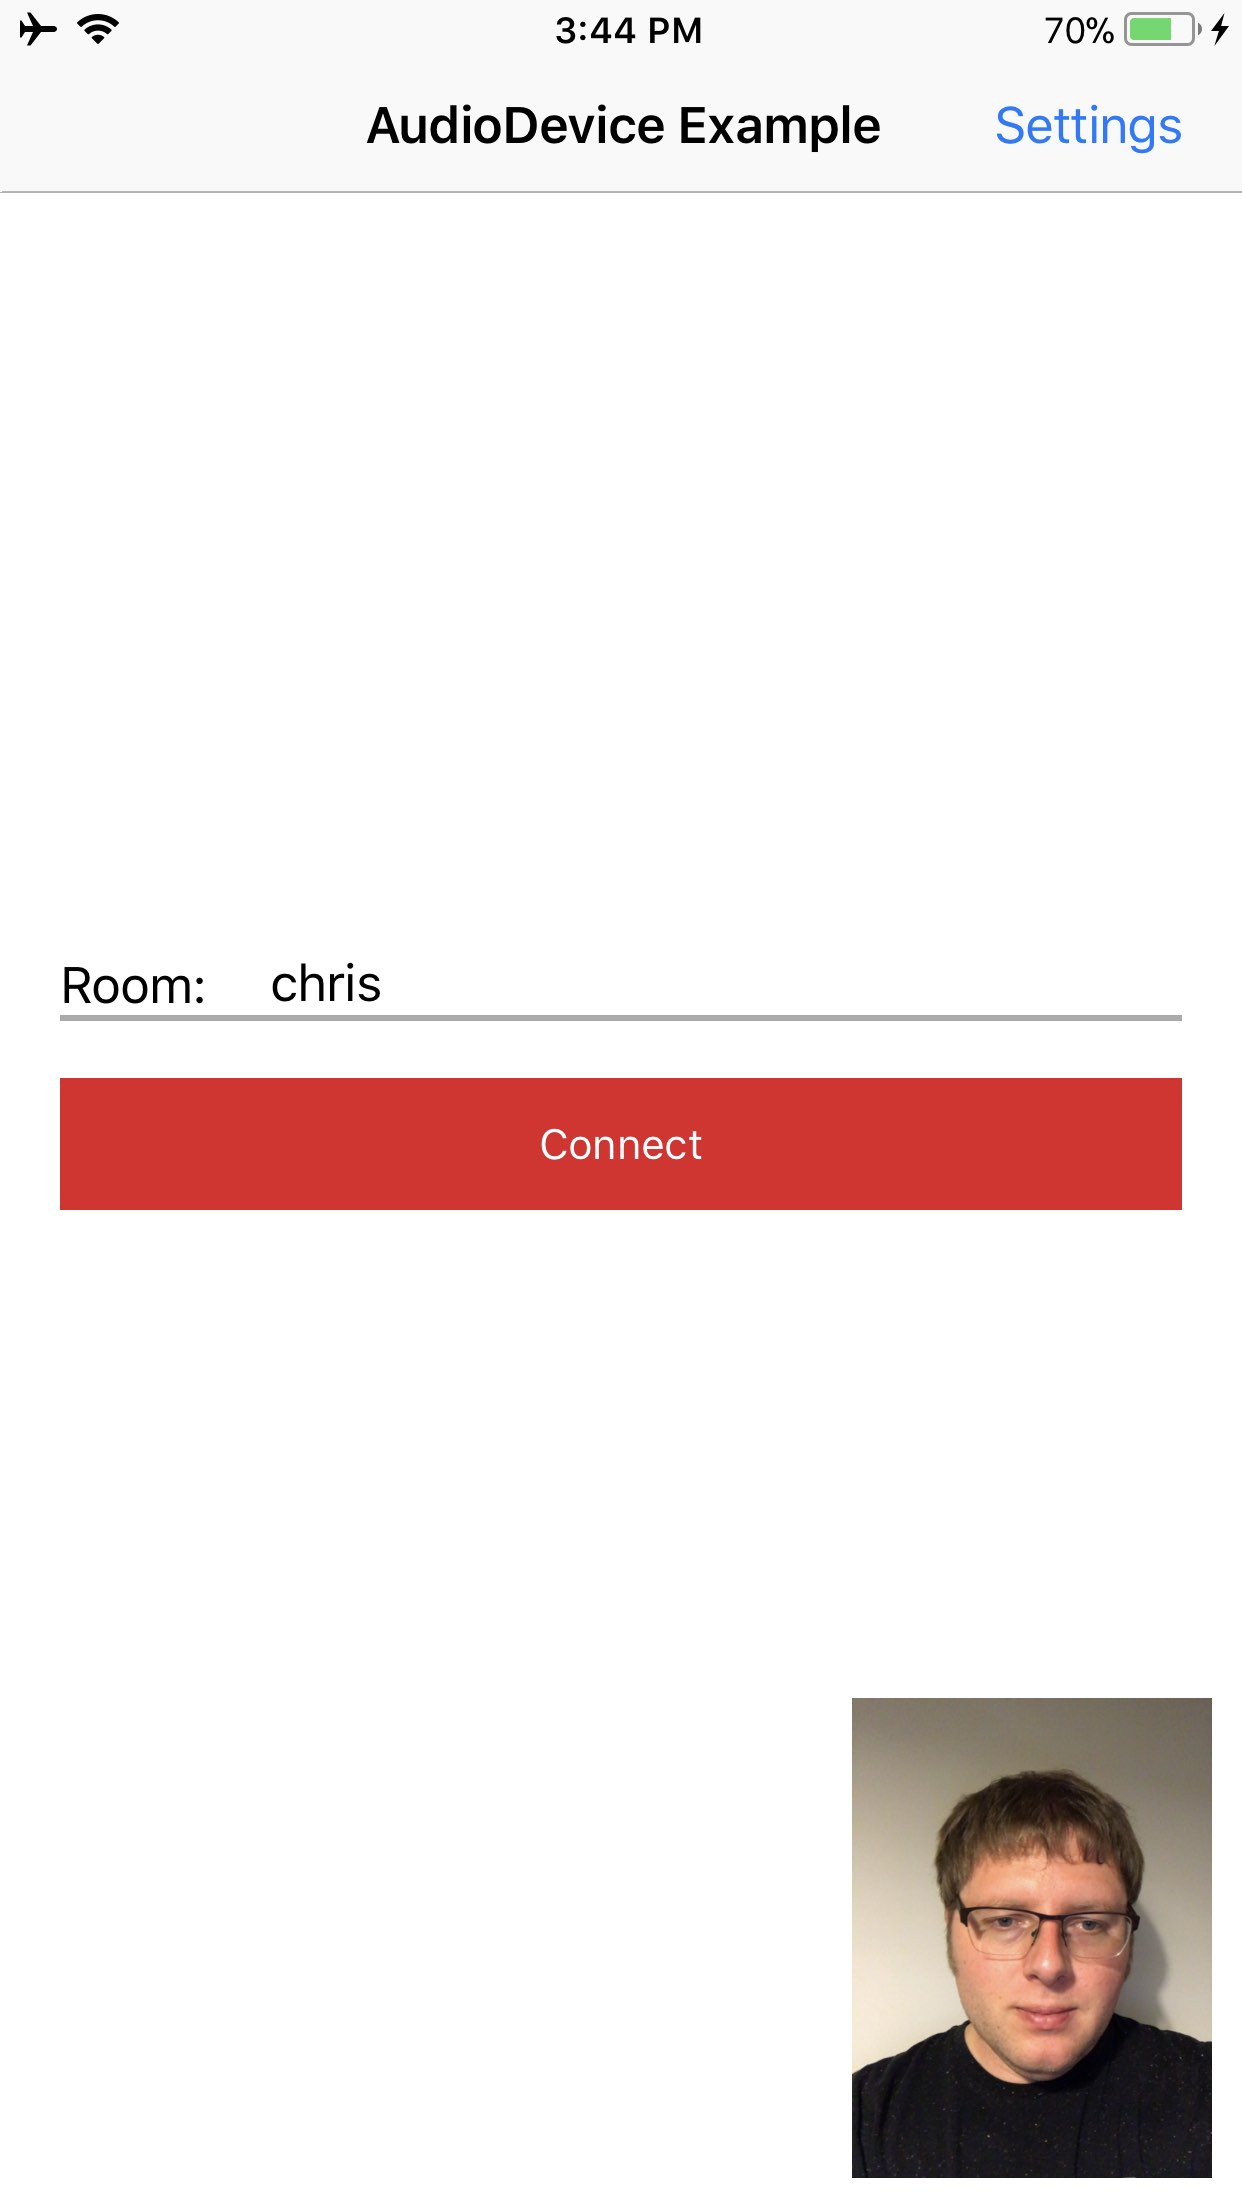
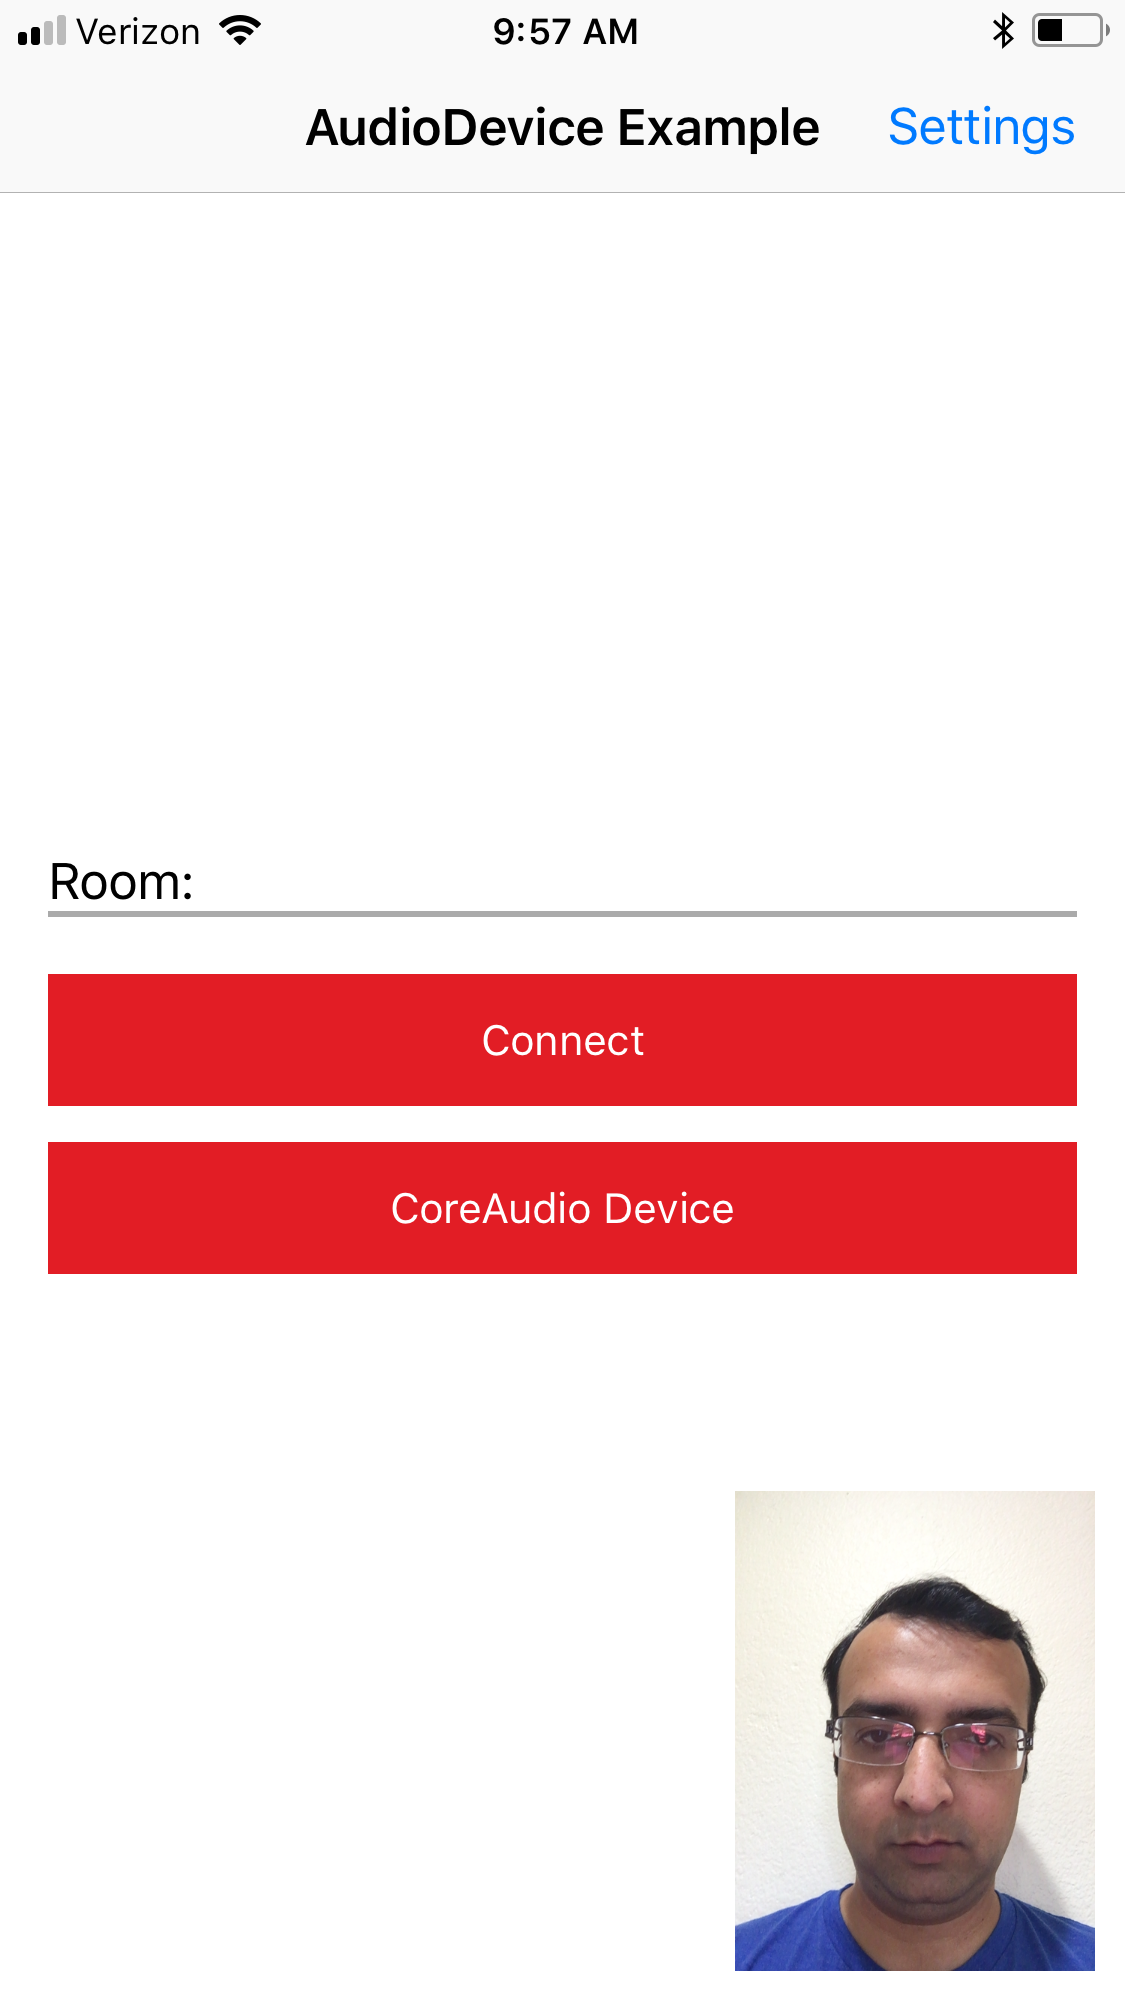
README changes

diff --git a/AudioDeviceExample/README.md b/AudioDeviceExample/README.md
@@ -8,12 +8,12 @@ The example demonstrates the following custom audio device(s):
 
 Uses a RemoteIO audio unit to playback stereo audio at up to 48 kHz. In contrast to `TVIDefaultAudioDevice`, this class does not record audio and is intended for high quality playback. Since recording is not needed this device does not use the built in echo cancellation provided by CoreAudio's VoiceProcessingIO audio unit nor does it require microphone permissions from the user.
 
-**ExampleAudioEngineDevice**
+**ExampleAVAudioEngineDevice**
 
 Uses the CoreAudio's VoiceProcessingIO audio unit to record and playback at up to 48KHz. Since this example supports audio capturing, the audio device uses the built-in echo cancellation provided by CoreAudio's VoiceProcessingIO audio unit. The example uses AVAudioEngine in manual rendering mode for mixing the Remote Participant's audio and audio from a file. CoreAudio receives the mixed audio samples from the AVAudioUnit's 
 output node.
 
-Please note, this example requires iOS 11.0 or above.
+Please note, ExampleAVAudioEngineDevice requires iOS 11.0 or above.
 
 Following example describes how audio device uses TwilioVideo, AVAudioEngine, and CoreAudio -
 
@@ -31,14 +31,22 @@ Once you have configured your access token, build and run the example. You will 
 
 <kbd><img width="400px" src="../images/quickstart/audio-device-launched.jpg"/></kbd>
 
+Tap the audio device button to select an audio device: 
+
+<kbd><img width="400px" src="../images/quickstart/select-audio-device.jpg"/></kbd>
+
+Once the audio device of your choice is selected, enter the room name.
+
+<kbd><img width="400px" src="../images/quickstart/enter-room-name.jpg"/></kbd>
+
 Tap the "Connect" button to join a Room. Once you've joined you will be sharing video but not audio. In order to playback audio from a remote Participant you will need a Client which supports audio recording. The easiest way to do this is to build and run the normal QuickStart [example](https://github.com/twilio/video-quickstart-swift/tree/2.0.0-preview/VideoQuickStart) and join the same Room.
 
 After the remote Participant has joined you should be able to hear their audio. Watch out if both devices are in the same physical space, because `ExampleCoreAudioDevice` does not use echo cancellation.
 
 ### Known Issues
 
-The AVAudioSession is configured and activated at playback initialization time. Ideally, it would be better to activate the AVAudioSession only when audio playback is needed. 
+The AVAudioSession is configured and activated at playback initialization time. Ideally, it would be better to activate the AVAudioSession only when audio playback is needed.
 
-You will also notice that backgrounding the application causes the signaling connection to die. 
+You will also notice that backgrounding the application causes the signaling connection to die.
 
-Both issues are limitations with custom `TVIAudioDevice`s in [2.0.0-beta1](https://www.twilio.com/docs/api/video/changelog-twilio-video-ios-version-2x#200-beta1-february-7-2018) and we expect to rectify them in future releases.
+Both issues are limitations with custom `TVIAudioDevice`s in [2.0.0-beta2](https://www.twilio.com/docs/api/video/changelog-twilio-video-ios-version-2x#200-beta2-february-27-2018) and we expect to rectify them in future releases.
